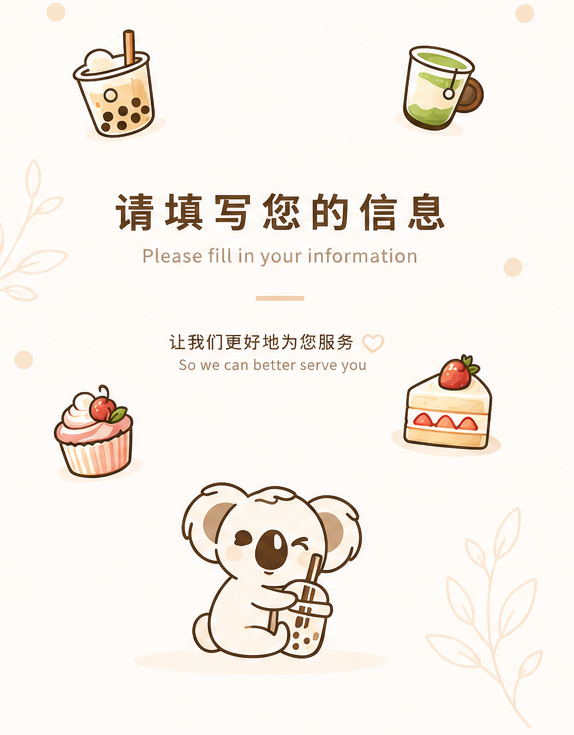
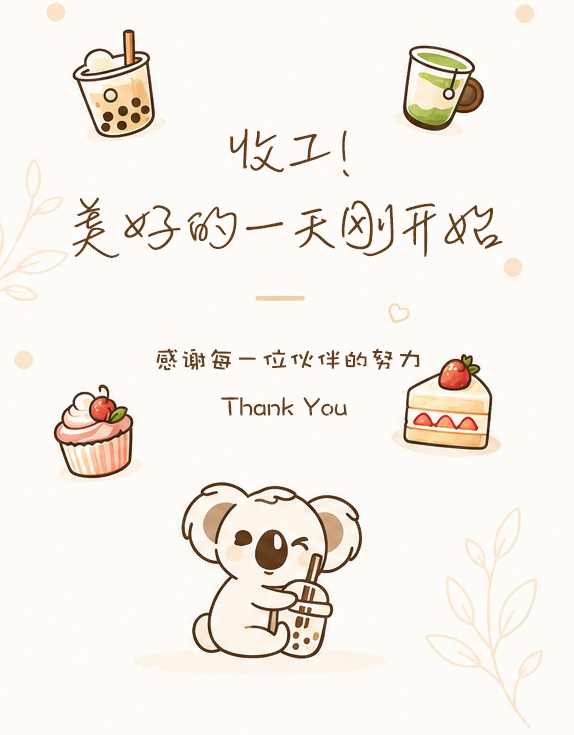
收工图更新

diff --git a/assets/js/config.js b/assets/js/config.js
@@ -6,5 +6,6 @@ const contacts = {
     whatsapp: "https://wa.me/message/E3PIYL2X2SPFN1",
     instagram: "https://www.instagram.com/kaola_bubbletea?igsh=eWo4aW0yMDF4NHVq&utm_source=qr",
     facebook: "https://www.facebook.com/share/1eYa3f3ZNT/?mibextid=wwXIfr",
-    tiktok: "https://www.tiktok.com/@kaolabubbletea?_r=1&_t=ZS-97fzIjCoIbw"
+    tiktok: "https://www.tiktok.com/@kaolabubbletea?_r=1&_t=ZS-97fzIjCoIbw",
+    email: "mailto:kaolabubbletea@outlook.com"
 }
